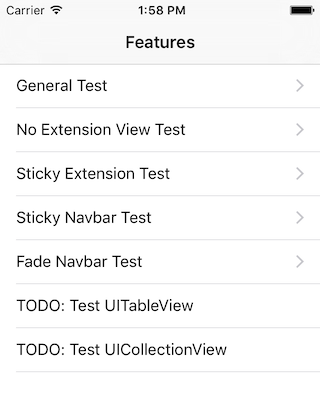
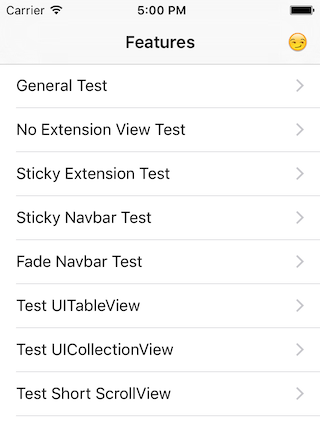
v1.0 prova

diff --git a/README.md b/README.md
@@ -1,10 +1,12 @@
 
-# TLYShyNavBar
+![TLYShyNavBar banner](http://imgur.com/UVxJLxu.png)<br />
+__v1.0, Finally! With better code design, and fully featured!__
+-----
 
 ![Pod Version](https://cocoapod-badges.herokuapp.com/v/TLYShyNavBar/badge.png)
 ![Pod License](https://img.shields.io/badge/license-MIT-blue.svg)
 
-This component helps you mimick the navigation bar auto scrolling that you see in the facebook, instagram and other apps. Not only that, but with the ability to add an additional extension that scrolls along as well! It is designed for **ease of use**, and is battle tested in our own [Telly app](https://itunes.apple.com/us/app/telly/id524552885?mt=8)<sup>[1]</sup>!
+This component helps you mimic the navigation bar auto scrolling that you see in the Facebook, Instagram, 9gag (which uses this!) and other apps. Not only that, but with the ability to add an additional extension that scrolls along as well! It is designed for **ease of use**, and is battle tested in our own [Telly app](https://itunes.apple.com/us/app/telly/id524552885?mt=8)<sup>[1]</sup>!
 
 ![Battle Tested!!](resources/battle-tested-demo.gif)
 
@@ -19,23 +21,24 @@ This component helps you mimick the navigation bar auto scrolling that you see i
 + **[A Deeper Look](#a-deeper-look)**: You're invensted in this now and want to make the most out of it.
 + **[How it Works](#how-it-works)**: The deep stuff...
 + **[Remarks](#remarks)**: Read this before losing all hope.
-+ **[Contributors](#contributors)**: Developers that donated their valuable time.
++ **[Contributing](#contributing)**: Together, making iOS better.
 + **[Author](#author)**: Watashi-da!
 + **[Similar Projects](#similar-projects)**: Similar projects that influenced the project in some way.
 
 ## Features
 
 | Feature | Demo |
-|---------|---------------------------------------------------------------------------------------------------------
-| Optional extension view to the `UINavigationBar`!                               | ![](resources/ShyNavBar-1.gif) |
-| Auto expand if below threshold                                                  | ![](resources/ShyNavBar-2.gif) |
-| Auto contract if below threshold                                                | ![](resources/ShyNavBar-3.gif) |
-| Very responsive, resilient and robust                                           | ![](resources/ShyNavBar-4.gif) |
-| Adjustable expansion resistance                                                 | ![](resources/ShyNavBar-5.gif) |
-| Plays well with `pushViewController`                                            | ![](resources/ShyNavBar-6.gif) |
-| Sticky extension view (Thanks @yukaliao !)                                      | ![](resources/ShyNavBar-7.gif) |
-| Sticky navigation bar (Thanks [@TiagoVeloso](https://github.com/TiagoVeloso)!)  | ![](resources/ShyNavBar-9.gif) |
-| Fade the entire navbar (Thanks [__@longsview__](https://github.com/longsview)!) | ![](resources/ShyNavBar-8.gif) |
+|---|---|
+| Scroll a `UINavigationBar` with an extension view | ![](resources/basic-feature.gif) |
+| Support opaque and translucent `UINavigationBar`s | ![](resources/opaque-supported.gif) |
+| Fully featured, with animations and variable resistance | ![](resources/fully-featured.gif) |
+| Responsive, resilient and robust | ![](resources/robust.gif) |
+| Supports `UITableView`, with headers, too! | ![](resources/tableview.gif) |
+| `UICollectionView` is more than welcome | ![](resources/collectionView.gif) |
+| In-call status bar? No problem! | ![](resources/in-app-call.gif) |
+| Sticky extension view (Thanks @yukaliao !) | ![](resources/sticky-extension.gif) |
+| Sticky navigation bar (Thanks [@TiagoVeloso](https://github.com/TiagoVeloso)!)  | ![](resources/sticky-navbar.gif) |
+| Fade the entire navbar (Thanks [__@longsview__](https://github.com/longsview)!) | ![](resources/fade-navbar.gif) |
 
 You can test some of these features in the Objective-C demo:
 
@@ -60,34 +63,20 @@ You can test some of these features in the Objective-C demo:
 self.shyNavBarManager.scrollView = self.scrollView;
 ```
 
-**IMPORTANT!!** If you are assigning a delegate to your scrollView, do that **before** assigning the scrollView to the `TLYShyNavBarManager`! To learn more, [see below](#how-it-works).
+**IMPORTANT NOTES!!** 
+
+1. Don't use with `UITableViewController`. Add a `UITableView` as a subview of `UIViewController` instead.
+2. If you are assigning a delegate to your scrollView, do that **before** assigning the scrollView to the `TLYShyNavBarManager`! To learn more, [see below](#how-it-works).
 
 ### Using TLYShyNavBar in Swift
-If you are building apps in Swift and targeting apps to iOS7 Apples [hidesBarsOnSwipe](https://developer.apple.com/library/ios/documentation/UIKit/Reference/UINavigationController_Class/#//apple_ref/occ/instp/UINavigationController/hidesBarsOnSwipe) will not work because it is in an iOS 8 feature.  As an alternative you can use TLYShyNavBar component in lieu of Apples feature.
 
-To use this component in Swift
+Nothing special is needed, really. Just make sure you have a [Bridging Header](http://stackoverflow.com/questions/31716413/xcode-not-automatically-creating-bridging-header) setup, and import:
 
-1. Clone this git repository locally: `git clone https://github.com/telly/TLYShyNavBar.git`
-2. Copy the `TLYShyNavBar` directory into your Swift project. <br />![](resources/Swift-project.png)
-3. Create a new header file called `Bridging-Header.h` and add the headers from `TLYShyNavBar` folder.[see headers below](#bridge-headers).
-4. Add the bridging header file to the project's build settings.  Search `Bridging Header` in `Build Settings` and add `Bridging-Header.h`. <br />![](resources/Bridged-Header.png)
-
-Now your project is setup to use the TLYShyNavBar component.  Next all you need to do is set the scrollview property in your UIViewController like it was an Objective-c project.
-
-```
-/* In your UIViewController viewDidLoad or after creating the scroll view. */
-self.shyNavBarManager.scrollView = self.scrollView;
-```
-
-#### Bridge Headers
-```
+```objc
 #import "TLYShyNavBarManager.h"
-#import "TLYShyViewController.h"
-#import "TLYDelegateProxy.h"
-#import "NSObject+TLYSwizzlingHelpers.h"
-#import "UIViewController+BetterLayoutGuides.h"
 ```
 
+Then, you should be able to follow the Objective-C instructions, since the code is almost identical.
 
 ## Design Goals
 
@@ -97,7 +86,7 @@ self.shyNavBarManager.scrollView = self.scrollView;
 
 ## A Deeper Look
 
-The above example, while small, is complete! It makes the navigation bar enriched with humbility, that it will start getting out of the way when the scroll view starts scrolling. But, you may want to do more than that!
+The above example, while small, is complete! It makes the navigation bar enriched with humility, that it will start getting out of the way when the scroll view starts scrolling. But, you may want to do more than that!
 
 #### ACCESS THE MANAGER OF SHYNESS
 
@@ -135,6 +124,17 @@ You can control that using the following properties on the `shyNavBarManager`:
  */
 @property (nonatomic) CGFloat expansionResistance;      // default 200
 @property (nonatomic) CGFloat contractionResistance;    // default 0
+```
+
+#### CONTROLLING THE FADE BEHAVIOR
+
+You can customize the fade behavior of the `UINavigationBar` through this property:
+
+```objc
+/* Choose how the navbar fades as it contracts/expands.
+ * Defaults to FadeSubviews
+ */
+@property (nonatomic) TLYShyNavBarFade fadeBehavior;
 ```
 
 ## How it Works
@@ -187,10 +187,10 @@ We also add a parent relationship for a single purpose: Make the child follow it
 
 ## Remarks
 
-There are downsides in making this component as easy to use as it is. If you have read the how it works section carefully, you'd realize that trying to configure the the `shyNavBarManager` before it is included in the `UINavigationController` heirarchy, will break the component, since within the component, we cannot find the navigation bar, and an assert is triggered:
+There are downsides in making this component as easy to use as it is. If you have read the how it works section carefully, you'd realize that trying to configure the the `shyNavBarManager` before it is included in the `UINavigationController` hierarchy, will break the component, since within the component, we cannot find the navigation bar, and an assert is triggered:
 
 ```objc
-NSAssert(navbar != nil, @"You are using the component wrong... Please see the README file.");
+NSAssert(navbar != nil, @"Please make sure the viewController is already attached to a navigation controller.");
 ```
 
 Of course, that can be avoided by creating your own `TLYShyNavBarManager`, like so:
@@ -203,27 +203,13 @@ shyManager.expansionResistance = 777.f;
 viewController.shyNavBarManager = shyManager;
 ```
 
-## Contributors
+## Contributing
 
-Thanks for everyone who opened an issue, shot me an email, and submitted a PR. Special thanks to those who submitted code that got checked in!
+PRs are welcome! It is important to test changes, though. Simply go over the demo, make sure nothing is broken. Please do check both translucent and opaque modes. Once all is good, you're good to go!
 
-_Sorted vaguely based on contribution according to [this](http://www.commandlinefu.com/commands/view/4519/list-all-authors-of-a-particular-git-project)_
+If it is a feature or bug, it would be greatly appreciated if a new view is added to the demo project demonstrating the bug/feature.
 
-+ Evan D. Schoenberg, M.D 
-+ Tony Nuzzi 
-+ Xurxo Méndez Pérez 
-+ Richard Das 
-+ Garret Riddle 
-+ Aleksey Kozhevnikov 
-+ modastic 
-+ Yukan 
-+ Remigiusz Herba 
-+ Nicholas Long 
-+ Koen Buddelmeijer 
-+ Anton Sokolchenko 
-+ Andrii Novoselskyi 
-+ Alek Slater 
-+ Aaron Satterfield 
+Thanks for everyone who opened an issue, shot me an email, and submitted a PR. Special thanks to those who submitted code that got checked in! This project was made possible with your help. ([See contributors graph](https://github.com/telly/TLYShyNavBar/graphs/contributors))
 
 ## Author
 
